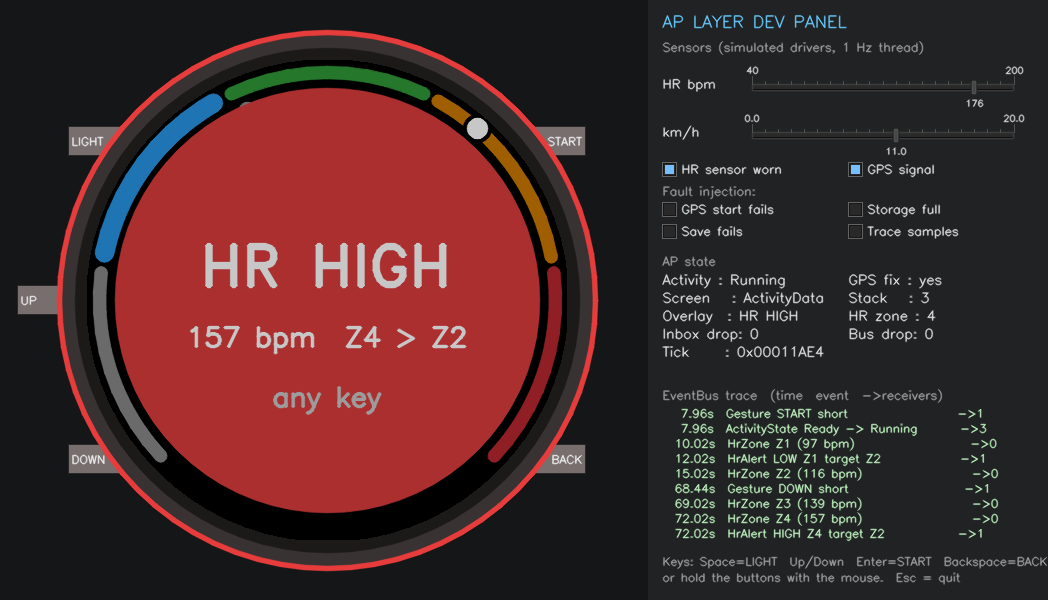
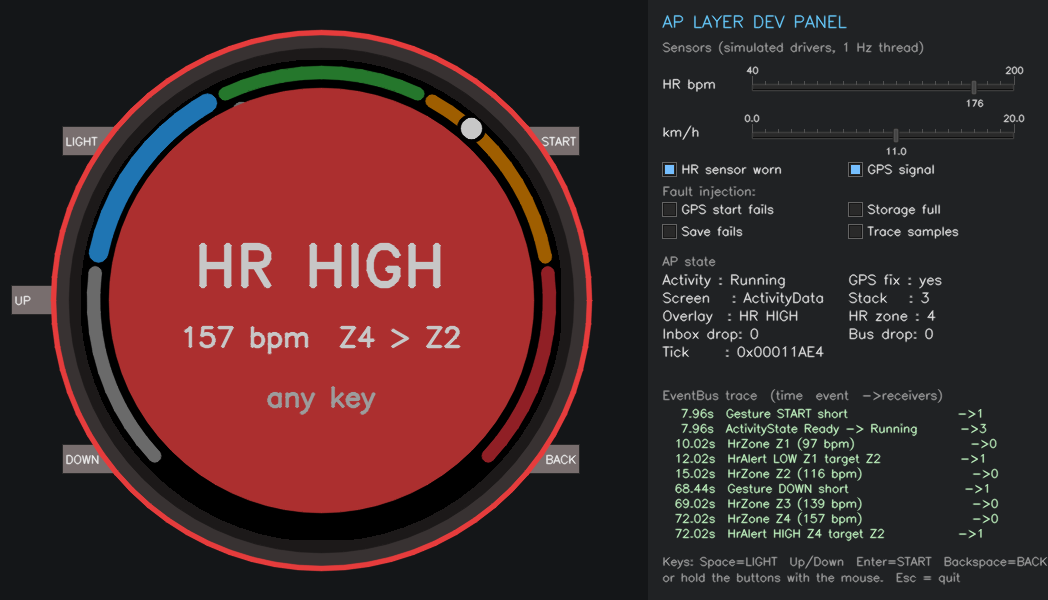
[what] 警示停留時間改為 3 秒、toast 改為 2 秒 [why] 1 秒來不及閱讀 popup 內容與按鍵確認 [how] kAlertMs 改為 3000、kToastMs 改為 2000；84/84 測試通過，demo 腳本警示仍能以 BACK 關閉且不記圈；更新 demo.keys、demo-script 說明、截圖與 dist/

diff --git a/ap/include/ap/ui/overlay.h b/ap/include/ap/ui/overlay.h
@@ -13,8 +13,8 @@ namespace ap {
 
 class OverlayManager final : public IInputHandler, private IEventListener, private ITimerListener {
 public:
-    static constexpr uint32_t kToastMs = 1000;
-    static constexpr uint32_t kAlertMs = 1000;
+    static constexpr uint32_t kToastMs = 2000;
+    static constexpr uint32_t kAlertMs = 3000;
 
     OverlayManager(EventBus& bus, SoftTimerPool& timers, IVibrator& vibrator)
         : m_bus(bus), m_timers(timers), m_vibrator(vibrator) {}

diff --git a/docs/demo-script.md b/docs/demo-script.md
@@ -10,7 +10,7 @@ Start: `build\RelWithDebInfo\watch_sim.exe --trace`. Put the console next to the
 | 4 | Speed 11 km/h, START | `Ready → Running`. Timer, distance and pace are live. UP/DOWN switch data pages (screen-local state). |
 | 5 | BACK | Lap: toast + short vibration. Show `Lap #1 … ->1` in the trace (one receiver: the overlay). |
 | 6 | HR slider to 175 | Zone changes with hysteresis. After 3 s out of the target zone, a **modal** alert appears. |
-| 7 | Press BACK **while the alert is up** (it closes itself after 1 s) | Alert dismissed, and **no lap taken**: the overlay sits before the screen in the input chain. |
+| 7 | Press BACK **while the alert is up** (it closes itself after 3 s) | Alert dismissed, and **no lap taken**: the overlay sits before the screen in the input chain. |
 | 8 | Double LIGHT, then press START | Key lock. START is swallowed by the first handler in the chain. Double LIGHT again unlocks. |
 | 9 | START (pause), tick *Save fails*, choose Save | `Paused → Paused (save failed)`: the state machine refuses to lose data. Untick and save again → `SAVED`, back to the watch face, CSV written. |
 | 10 | Tick *GPS start fails*, start a run | `START FAILED`, and the session stays Idle. Error handling with return values and events, no exceptions. |
